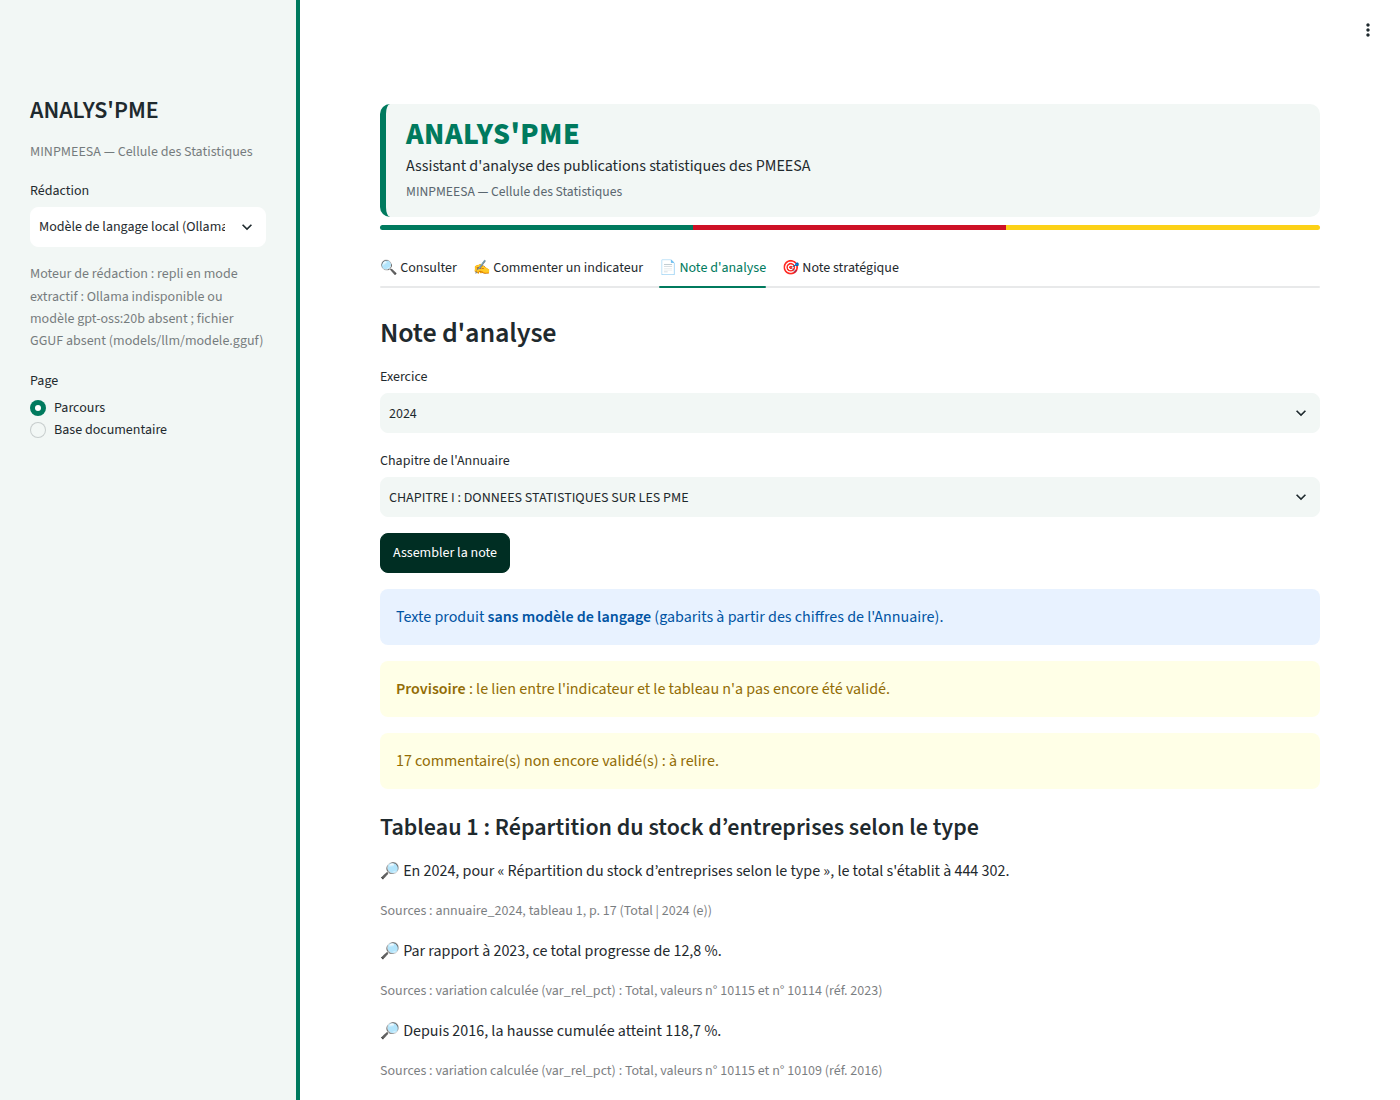
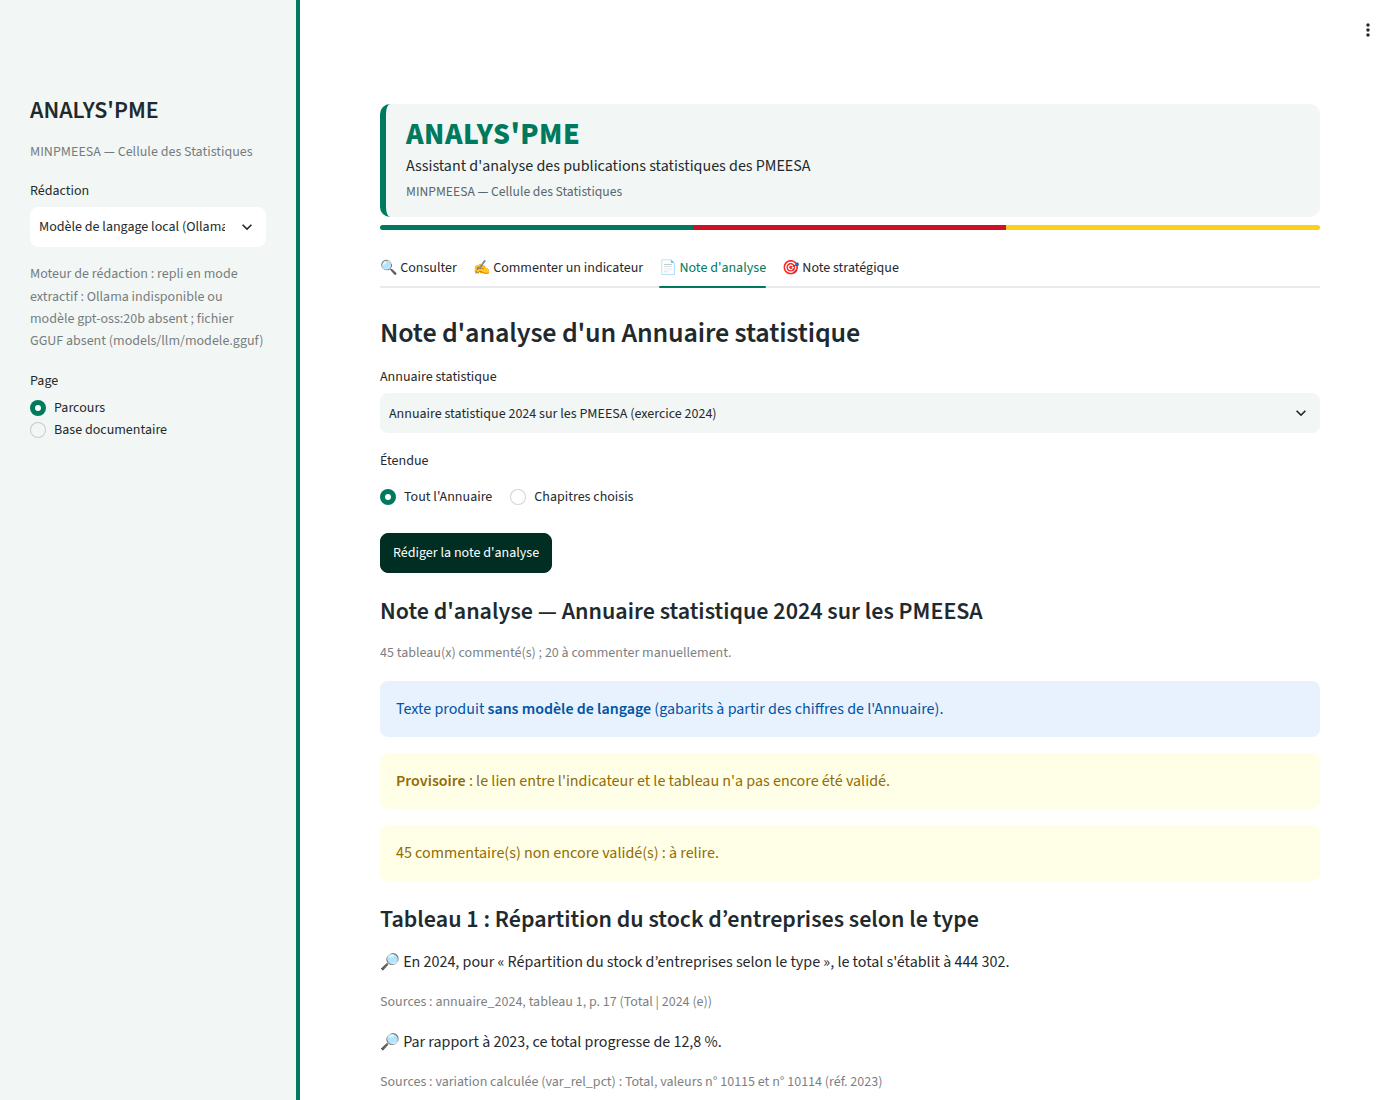
Note d'analyse : choix préalable de l'Annuaire statistique, puis Annuaire entier ou chapitres choisis ; guide et captures mis à jour
Claude-Session: https://claude.ai/code/session_013JXMEQCNGgRjDzvz3X6fC9

diff --git a/minpmeesa/app/streamlit_app.py b/minpmeesa/app/streamlit_app.py
@@ -149,25 +149,43 @@ if page == "Parcours" and m:
                     st.success("Commentaire validé : il sera repris dans les notes.")
 
     with t3:
-        st.subheader("Note d'analyse")
-        ex3 = st.selectbox("Exercice", [r[0] for r in con.execute(
-            "SELECT DISTINCT exercice FROM documents WHERE type='annuaire' ORDER BY exercice DESC")], key="ex3")
-        chapitres = [r[0] for r in con.execute(
-            "SELECT DISTINCT p.chapitre FROM passages p JOIN documents d USING(doc_id) WHERE d.type='annuaire' "
-            "AND d.exercice=? AND p.nature='tableau' AND p.chapitre LIKE 'CHAPITRE%'", (ex3,))]
-        chap = st.selectbox("Chapitre de l'Annuaire", chapitres)
-        if st.button("Assembler la note", type="primary"):
-            import re
-            st.session_state["na"] = analysis_note.rediger(con, ex3, chapitre=re.escape(chap), client=client, moteur=m)
+        st.subheader("Note d'analyse d'un Annuaire statistique")
+        annuaires = [dict(r) for r in con.execute(
+            "SELECT doc_id, titre, exercice FROM documents WHERE type='annuaire' AND statut_diffusion='publie' "
+            "ORDER BY exercice DESC")]
+        ann = st.selectbox("Annuaire statistique", annuaires,
+                           format_func=lambda a: f"{a['titre']} (exercice {a['exercice']})", key="ann3")
+        etendue = st.radio("Étendue", ["Tout l'Annuaire", "Chapitres choisis"], horizontal=True, key="et3")
+        choix = []
+        if etendue == "Chapitres choisis":
+            chapitres = list(dict.fromkeys(r[0] for r in con.execute(
+                "SELECT chapitre FROM passages WHERE doc_id=? AND nature='tableau' AND chapitre LIKE 'CHAPITRE%' "
+                "ORDER BY page", (ann["doc_id"],))))
+            choix = st.multiselect("Chapitres de cet Annuaire", chapitres, key="ch3")
+        if client is not None and etendue == "Tout l'Annuaire":
+            st.caption("Avec un modèle de langage, la rédaction d'un Annuaire entier peut prendre longtemps.")
+        if st.button("Rédiger la note d'analyse", type="primary", disabled=etendue == "Chapitres choisis" and not choix):
+            titre = f"Note d'analyse — {ann['titre']}"
+            with st.spinner("Rédaction des commentaires de l'Annuaire…"):
+                if etendue == "Tout l'Annuaire":
+                    st.session_state["na"] = analysis_note.rediger(con, ann["exercice"], documents=[ann["doc_id"]],
+                                                                   client=client, moteur=m, titre=titre)
+                else:
+                    motif = "|".join(re.escape(c) for c in choix)
+                    st.session_state["na"] = analysis_note.rediger(con, ann["exercice"], chapitre=f"^({motif})$",
+                                                                   client=client, moteur=m,
+                                                                   titre=f"{titre} — {len(choix)} chapitre(s)")
         na = st.session_state.get("na")
         if na:
+            st.markdown(f"#### {na['titre']}")
+            st.caption(f"{len(na['sections'])} tableau(x) commenté(s) ; {len(na['abstentions'])} à commenter manuellement.")
             avertissements(na)
             for s in na["sections"]:
                 st.markdown(f"#### Tableau {s['tableau_n']} : {s['intitule']}")
                 afficher_commentaire(s["commentaire"])
             if na["abstentions"]:
                 st.warning("À commenter manuellement : " + ", ".join(f"tableau {a['tableau_n']}" for a in na["abstentions"]))
-            bouton_word("Exporter en Word", docx_export.exporter_note_analyse, na, f"note_analyse_{ex3}.docx")
+            bouton_word("Exporter en Word", docx_export.exporter_note_analyse, na, f"note_analyse_{na['exercice']}.docx")
 
     with t4:
         st.subheader("Note d'analyse stratégique")

diff --git a/scripts/captures.py b/scripts/captures.py
@@ -45,7 +45,7 @@ def main(url: str):
         # 3. Note d'analyse
         page.get_by_role("tab", name="Note d'analyse").click()
         attendre(page)
-        page.get_by_role("button", name="Assembler la note").click()
+        page.get_by_role("button", name="Rédiger la note d'analyse").click()
         page.wait_for_selector("text=Tableau 1 :", timeout=600000)
         attendre(page)
         page.screenshot(path=str(DEST / "3_note_analyse.png"), full_page=False)

diff --git a/docs/JOURNAL.md b/docs/JOURNAL.md
@@ -33,3 +33,4 @@
 | 29 | (Plan A2–A4) Indicateur « VA des PME » commenté avec la ligne « Stock des PME » ; « Total (*) » non reconnu ; évolutions sans nature ni dimension (« Masculin », « Primaire »). | Grandeur de l'indicateur (VA, stock…) : lignes d'une autre grandeur écartées, ligne principale = total ou ligne de la grandeur ; renvois (*) ignorés ; dimension tirée du titre (« dans la répartition par sexe ») ; nature (« de la valeur ajoutée », « de l'effectif ») ; évolution de part en points. | `generation/commentary.py` |
 | 30 | (Plan B) Messages clés tous construits sur la même phrase ; pistes répétitives ; note 2023 à 2 évolutions ; évolutions « +300 % » sur de très petits effectifs ; une même grandeur (OES) présente avec quatre évolutions contradictoires. | Une évolution par grandeur (celle de son total, alignée sur l'encadré « chiffres clés ») ; messages : fait principal, dynamique la plus forte, point de vigilance ; pistes typées (corriger, consolider, cibler, approfondir, suivre) ; seuil d'effectif fixé a priori ; minimum non atteint expliqué dans la note. | `generation/strategic_note.py`, `generation/commentary.py` |
 | 31 | Colonne du dernier exercice subdivisée (Effectif / %) : série non reliée, variations manquantes ; valeurs « 31,1% » rejetées par le contrôle. | Prolongation de la série par la sous-colonne de niveau ; signe % collé accepté (E20). | `compute/variations.py`, `guards/normalize.py` |
+| 32 | (Remarque de l'étudiant) La note d'analyse partait d'une liste de chapitres, sans choisir l'Annuaire. | L'utilisateur choisit d'abord l'Annuaire statistique, puis l'étendue : Annuaire entier (par défaut) ou chapitres choisis de cet Annuaire. | `app/streamlit_app.py` |

diff --git a/docs/GUIDE_UTILISATEUR.md b/docs/GUIDE_UTILISATEUR.md
@@ -34,7 +34,7 @@ Trois messages peuvent accompagner les textes :
 
 ![Note d'analyse](../data/outputs/captures/3_note_analyse.png)
 
-1. Choisissez l'exercice et un chapitre de l'Annuaire, puis « Assembler la note ».
+1. Choisissez l'Annuaire statistique (par exemple « Annuaire statistique 2024 »), puis l'étendue : l'Annuaire entier, ou seulement certains de ses chapitres ; cliquez sur « Rédiger la note d'analyse ».
 2. La note reprend les commentaires, tableau par tableau, dans l'ordre de l'Annuaire. Elle n'ajoute aucun chiffre.
 3. Les tableaux sans commentaire possible sont listés « à commenter manuellement ».
 4. « Exporter en Word ».
